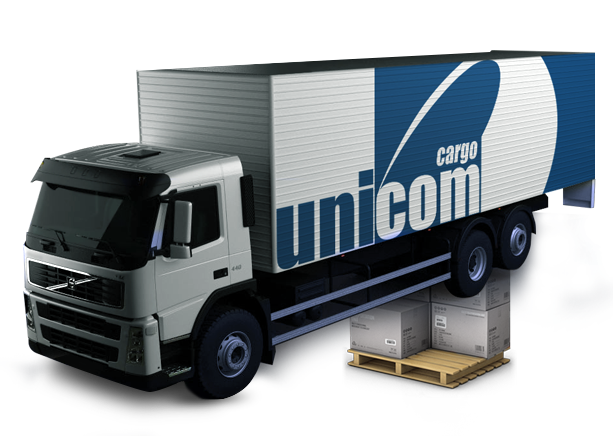
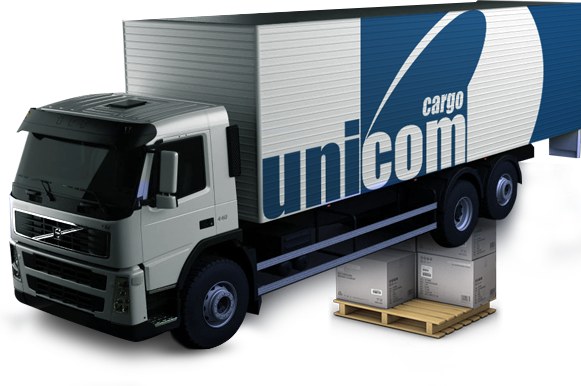
little fixes

diff --git a/www/css/main.css b/www/css/main.css
@@ -28,6 +28,8 @@ header .top-small-line {
   height: 4px;
   background-image: url("../img/top-line.png");
   background-repeat: repeat-x; }
+header .navbar {
+  margin-bottom: 0; }
 header .my-navbar-toggle {
   margin-top: 40px;
   border: 2px solid #024f9c;
@@ -99,7 +101,7 @@ header .button-header-dd {
     color: #024f9c;
     background-color: #fff; }
 header .third-col2 {
-  padding-top: 52px; }
+  padding-top: 30px; }
   header .third-col2 span {
     font-size: 18px;
     font-weight: bold;
@@ -209,7 +211,7 @@ header .header-navbar {
     font-size: 60px;
     font-weight: bold;
     text-transform: uppercase;
-    margin: 125px 0 12px 0; }
+    margin: 50px 0 12px 0; }
   .slider-main-wrapper p {
     text-indent: 0;
     margin-bottom: 34px; }
@@ -237,9 +239,7 @@ header .header-navbar {
     .slider-main-wrapper .more a {
       color: #fff; }
   .slider-main-wrapper img {
-    margin-top: 147px; }
-  .slider-main-wrapper .owl-item:nth-child(3) img {
-    margin-top: 70px; }
+    margin-top: 75px; }
   .slider-main-wrapper .slider-conrols {
     height: auto;
     border-top: 3px solid #d2d2d2; }
@@ -322,10 +322,6 @@ header .header-navbar {
         top: 75px;
         opacity: .7;
         left: -8px; }
-    .slider-main-wrapper .inner-controls .active {
-      background-color: #fb8a4c;
-      background-image: -webkit-linear-gradient(bottom right, #fb8a4c 50%, #ec6f2b 50%);
-      background-image: linear-gradient(to top left,#fb8a4c 50%, #ec6f2b 50%); }
 
 .left-row {
   background-image: url("../../img/map.png");
@@ -416,31 +412,28 @@ header .header-navbar {
   .contact-container .for-print {
     display: inline-block;
     list-style-image: url("../../img/print-mark.png");
-    margin-top: 7px;
-    text-align: right; }
+    margin-top: 7px; }
     .contact-container .for-print a {
       color: #024f9c;
       text-decoration: underline; }
-    .contact-container .for-print li {
-      padding-left: 0px; }
-  .contact-container .contact-info h1, .contact-container .contact-info h2, .contact-container .contact-info2 h1, .contact-container .contact-info2 h2 {
+  .contact-container .contact-info h1, .contact-container .contact-info h2 {
     font-size: 24px;
     color: #024f9c;
     display: block;
     margin-top: 30px; }
-  .contact-container .contact-info h2, .contact-container .contact-info2 h2 {
+  .contact-container .contact-info h2 {
     margin-top: 0; }
-  .contact-container .contact-info span, .contact-container .contact-info2 span {
+  .contact-container .contact-info span {
     display: block; }
-  .contact-container .contact-info ul, .contact-container .contact-info2 ul {
+  .contact-container .contact-info ul {
     list-style-type: none;
     padding-left: 0;
     margin-top: 30px; }
-  .contact-container .contact-info strong, .contact-container .contact-info2 strong {
+  .contact-container .contact-info strong {
     color: #024f9c; }
-  .contact-container .contact-info a, .contact-container .contact-info2 a {
+  .contact-container .contact-info a {
     color: #595959; }
-    .contact-container .contact-info a i, .contact-container .contact-info2 a i {
+    .contact-container .contact-info a i {
       color: #024f9c;
       margin-right: 5px; }
   .contact-container #first-map, .contact-container #second-map, .contact-container #third-map {
@@ -907,7 +900,9 @@ footer {
       line-height: 22px;
       margin-left: 23px; }
       footer .site-map-bottom ul:first-child {
-        list-style-type: none; }
+        list-style-type: none;
+        padding-left: 0;
+        margin-left: 0; }
       footer .site-map-bottom ul:last-child {
         list-style-type: none; }
         footer .site-map-bottom ul:last-child a {

diff --git a/www/css/sass/main.scss b/www/css/sass/main.scss
@@ -62,6 +62,9 @@ header{
 		background-image: url("../img/top-line.png");
 		background-repeat: repeat-x;
 	}
+	.navbar{
+		margin-bottom: 0;
+	}
 	.my-navbar-toggle{
 		margin-top: 40px;
 		border: 2px solid $text_color_blue;
@@ -159,7 +162,7 @@ header{
 
 	}
 	.third-col2{
-		padding-top: 52px;
+		padding-top: 30px;
 		span{
 			font-size: 18px;
 			font-weight: bold;
@@ -287,7 +290,7 @@ header{
 		font-size: 60px;
 		font-weight: bold;
 		text-transform: uppercase;
-		margin: 125px 0 12px 0;
+		margin: 50px 0 12px 0;
 	}
 	p{
 		text-indent: 0;
@@ -322,12 +325,8 @@ header{
 		}
 	}
 	img{
-		margin-top: 147px;
-	}
-	.owl-item:nth-child(3){
-		img{
-			margin-top: 70px;
-		}
+		margin-top: 75px;
+		
 	}
 	.slider-conrols{
 		height: auto;
@@ -414,9 +413,6 @@ header{
 			    opacity: .7;
 			    left: -8px;
 			}
-		}
-		.active{
-			@include linear-gradient(to top left, #fb8a4c 50%, #ec6f2b 50%);
 		}
 	}
 }
@@ -529,16 +525,12 @@ header{
 		display: inline-block;
 		list-style-image: url("../../img/print-mark.png");
 		margin-top: 7px;
-		text-align: right;
 		a{
 			color: $text_color_blue;
 			text-decoration: underline;
 		}
-		li{
-		    padding-left: 0px;
-		}
 	}
-	.contact-info,.contact-info2{
+	.contact-info{
 		h1,h2{
 			font-size: 24px;
 			color: $text_color_blue;
@@ -712,6 +704,7 @@ header{
 				}
 				a{
 					color: $text_color_blue;
+
 				}	
 				.date{
 					display: block;
@@ -1104,6 +1097,8 @@ footer{
 			margin-left: 23px;
 			&:first-child{
 				list-style-type: none;
+				padding-left: 0;
+				margin-left: 0;
 			}
 			&:last-child{
 				list-style-type: none;
